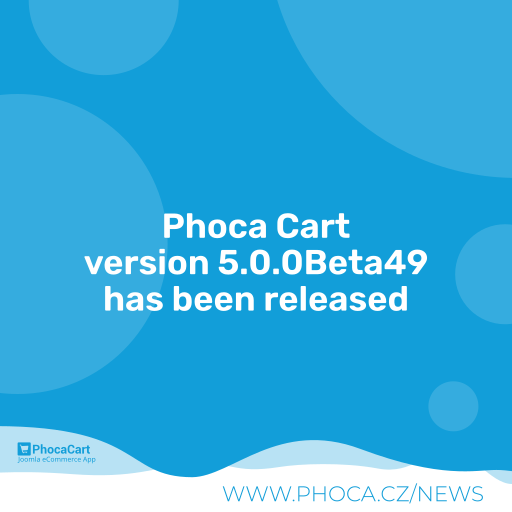
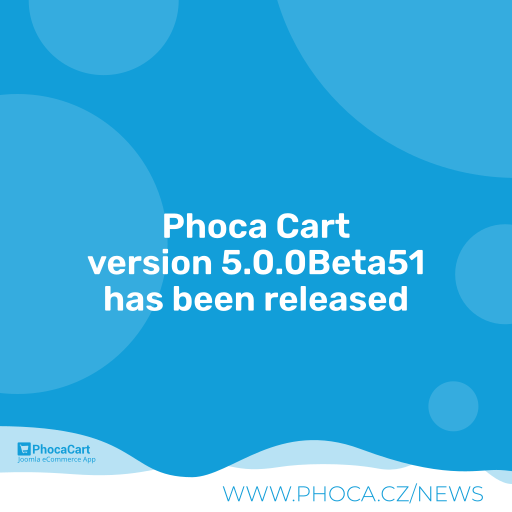
5.0.0Beta51

Changed region(s): [[0.1562, 0.4688, 0.8438, 0.5625]]

diff --git a/media/css/main.css b/media/css/main.css
@@ -1139,7 +1139,7 @@ table.ph-comparison-table tr td.ph-middle {
 ul.ph-filter-module-category-tree {
     list-style-type: none;
     padding: 0;
-    padding-left: 1em;
+    /*padding-left: 1em;*/
 }
 
 ul.ph-filter-module-category-tree li .checkbox {
@@ -2591,3 +2591,5 @@ form.ph-form-placeholder .ph-checkout-billing-row {
     text-align: center;
     margin-bottom: 1em;
 }
+
+

diff --git a/site/layouts/order.php b/site/layouts/order.php
@@ -553,6 +553,11 @@ if ($d['type'] == 2) {
 	if ($invoiceTopDescArticle != '') {
 		$o[] = '<div '.$hrSmall.'>&nbsp;</div>';
 		$invoiceTopDescArticle 	= PhocacartPdf::skipStartAndLastTag($invoiceTopDescArticle, 'p');
+
+        if ($d['qrcode'] != '' && $d['format'] == 'pdf') {
+            $invoiceTopDescArticle = str_replace('{invoiceqr}', '{phocapdfqrcode|' . urlencode($d['qrcode']) . '}', $invoiceTopDescArticle);
+        }
+
 		$invoiceTopDescArticle 	= PhocacartText::completeText($invoiceTopDescArticle, $d['preparereplace'], 1);
 		//$invoiceTopDescArticle 	= PhocacartText::completeTextFormFields($invoiceTopDescArticle, $d['bas']['b'], 1);
 		//$invoiceTopDescArticle 	= PhocacartText::completeTextFormFields($invoiceTopDescArticle, $d['bas']['s'], 2);
@@ -565,6 +570,11 @@ if ($d['type'] == 2) {
 	if ($orderTopDescArticle != '') {
 		$o[] = '<div '.$hrSmall.'>&nbsp;</div>';
 		$orderTopDescArticle 	= PhocacartPdf::skipStartAndLastTag($orderTopDescArticle, 'p');
+
+        if ($d['qrcode'] != '' && $d['format'] == 'pdf') {
+            $orderTopDescArticle = str_replace('{invoiceqr}', '{phocapdfqrcode|' . urlencode($d['qrcode']) . '}', $orderTopDescArticle);
+        }
+
 		$orderTopDescArticle 	= PhocacartText::completeText($orderTopDescArticle, $d['preparereplace'], 1);
 		//$orderTopDescArticle 	= PhocacartText::completeTextFormFields($orderTopDescArticle, $d['bas']['b'], 1);
 		//$orderTopDescArticle 	= PhocacartText::completeTextFormFields($orderTopDescArticle, $d['bas']['s'], 2);
@@ -577,6 +587,11 @@ if ($d['type'] == 2) {
 	if ($dnTopDescArticle != '') {
 		$o[] = '<div '.$hrSmall.'>&nbsp;</div>';
 		$dnTopDescArticle 	= PhocacartPdf::skipStartAndLastTag($dnTopDescArticle, 'p');
+
+        if ($d['qrcode'] != '' && $d['format'] == 'pdf') {
+            $dnTopDescArticle = str_replace('{invoiceqr}', '{phocapdfqrcode|' . urlencode($d['qrcode']) . '}', $dnTopDescArticle);
+        }
+
 		$dnTopDescArticle 	= PhocacartText::completeText($dnTopDescArticle, $d['preparereplace'], 1);
 		$dnTopDescArticle 	= PhocacartText::completeTextFormFields($dnTopDescArticle, $d['bas']['b'], $d['bas']['s']);
 		$o[] = '<table '.$bDesc.'><tr><td>'.$dnTopDescArticle.'</td></tr></table>';
@@ -935,6 +950,11 @@ if ($d['type'] == 2) {
 	if ($invoiceMiddleDescArticle != '') {
 		$o[] = '<div '.$hrSmall.'>&nbsp;</div>';
 		$invoiceMiddleDescArticle 	= PhocacartPdf::skipStartAndLastTag($invoiceMiddleDescArticle, 'p');
+
+        if ($d['qrcode'] != '' && $d['format'] == 'pdf') {
+            $invoiceMiddleDescArticle = str_replace('{invoiceqr}', '{phocapdfqrcode|' . urlencode($d['qrcode']) . '}', $invoiceMiddleDescArticle);
+        }
+
 		$invoiceMiddleDescArticle 	= PhocacartText::completeText($invoiceMiddleDescArticle, $d['preparereplace'], 1);
 		//$invoiceMiddleDescArticle 	= PhocacartText::completeTextFormFields($invoiceMiddleDescArticle, $d['bas']['b'], 1);
 		//$invoiceMiddleDescArticle 	= PhocacartText::completeTextFormFields($invoiceMiddleDescArticle, $d['bas']['s'], 2);
@@ -947,7 +967,12 @@ if ($d['type'] == 2) {
 	if ($orderMiddleDescArticle != '') {
 		$o[] = '<div '.$hrSmall.'>&nbsp;</div>';
 		$orderMiddleDescArticle 	= PhocacartPdf::skipStartAndLastTag($orderMiddleDescArticle, 'p');
-		$orderMiddleDescArticle 	= PhocacartText::completeText($orderMiddleDescArticle, $d['preparereplace'], 1);
+
+        if ($d['qrcode'] != '' && $d['format'] == 'pdf') {
+            $orderMiddleDescArticle = str_replace('{invoiceqr}', '{phocapdfqrcode|' . urlencode($d['qrcode']) . '}', $orderMiddleDescArticle);
+        }
+
+        $orderMiddleDescArticle 	= PhocacartText::completeText($orderMiddleDescArticle, $d['preparereplace'], 1);
 		//$orderMiddleDescArticle 	= PhocacartText::completeTextFormFields($orderMiddleDescArticle, $d['bas']['b'], 1);
 		//$orderMiddleDescArticle 	= PhocacartText::completeTextFormFields($orderMiddleDescArticle, $d['bas']['s'], 2);
 		$orderMiddleDescArticle 	= PhocacartText::completeTextFormFields($orderMiddleDescArticle, $d['bas']['b'], $d['bas']['s']);
@@ -959,6 +984,11 @@ if ($d['type'] == 2) {
 	if ($dnMiddleDescArticle != '') {
 		$o[] = '<div '.$hrSmall.'>&nbsp;</div>';
 		$dnMiddleDescArticle 	= PhocacartPdf::skipStartAndLastTag($dnMiddleDescArticle, 'p');
+
+        if ($d['qrcode'] != '' && $d['format'] == 'pdf') {
+            $dnMiddleDescArticle = str_replace('{invoiceqr}', '{phocapdfqrcode|' . urlencode($d['qrcode']) . '}', $dnMiddleDescArticle);
+        }
+
 		$dnMiddleDescArticle 	= PhocacartText::completeText($dnMiddleDescArticle, $d['preparereplace'], 1);
 		$dnMiddleDescArticle 	= PhocacartText::completeTextFormFields($dnMiddleDescArticle, $d['bas']['b'], $d['bas']['s']);
 		$o[] = '<table '.$bDesc.'><tr><td>'.$dnMiddleDescArticle.'</td></tr></table>';
@@ -1162,7 +1192,12 @@ if ($d['type'] == 2) {
 	if ($invoiceBottomDescArticle != '') {
 		$o[] = '<div '.$hrSmall.'>&nbsp;</div>';
 		$invoiceBottomDescArticle 	= PhocacartPdf::skipStartAndLastTag($invoiceBottomDescArticle, 'p');
-		$invoiceBottomDescArticle 	= PhocacartText::completeText($invoiceBottomDescArticle, $d['preparereplace'], 1);
+
+        if ($d['qrcode'] != '' && $d['format'] == 'pdf') {
+            $invoiceBottomDescArticle = str_replace('{invoiceqr}', '{phocapdfqrcode|' . urlencode($d['qrcode']) . '}', $invoiceBottomDescArticle);
+        }
+
+        $invoiceBottomDescArticle 	= PhocacartText::completeText($invoiceBottomDescArticle, $d['preparereplace'], 1);
 		//$invoiceBottomDescArticle 	= PhocacartText::completeTextFormFields($invoiceBottomDescArticle, $d['bas']['b'], 1);
 		//$invoiceBottomDescArticle 	= PhocacartText::completeTextFormFields($invoiceBottomDescArticle, $d['bas']['s'], 2);
 		$invoiceBottomDescArticle 	= PhocacartText::completeTextFormFields($invoiceBottomDescArticle, $d['bas']['b'], $d['bas']['s']);
@@ -1174,11 +1209,17 @@ if ($d['type'] == 2) {
 	if ($orderBottomDescArticle != '') {
 		$o[] = '<div '.$hrSmall.'>&nbsp;</div>';
 		$orderBottomDescArticle 	= PhocacartPdf::skipStartAndLastTag($orderBottomDescArticle, 'p');
+
+        if ($d['qrcode'] != '' && $d['format'] == 'pdf') {
+            $orderBottomDescArticle = str_replace('{invoiceqr}', '{phocapdfqrcode|' . urlencode($d['qrcode']) . '}', $orderBottomDescArticle);
+        }
 		$orderBottomDescArticle 	= PhocacartText::completeText($orderBottomDescArticle, $d['preparereplace'], 1);
 		//$orderBottomDescArticle 	= PhocacartText::completeTextFormFields($orderBottomDescArticle, $d['bas']['b'], 1);
 		//$orderBottomDescArticle 	= PhocacartText::completeTextFormFields($orderBottomDescArticle, $d['bas']['s'], 2);
 		$orderBottomDescArticle 	= PhocacartText::completeTextFormFields($orderBottomDescArticle, $d['bas']['b'], $d['bas']['s']);
 		$o[] = '<table '.$bDesc.'><tr><td>'.$orderBottomDescArticle.'</td></tr></table>';
+
+
 	}
 } else if ($d['type'] == 3) {
 	$dnBottomDescArticle = PhocacartRenderFront::renderArticle((int)$dn_global_bottom_desc, $d['format']);
@@ -1186,6 +1227,11 @@ if ($d['type'] == 2) {
 	if ($dnBottomDescArticle != '') {
 		$o[] = '<div '.$hrSmall.'>&nbsp;</div>';
 		$dnBottomDescArticle 	= PhocacartPdf::skipStartAndLastTag($dnBottomDescArticle, 'p');
+
+        if ($d['qrcode'] != '' && $d['format'] == 'pdf') {
+            $dnBottomDescArticle = str_replace('{invoiceqr}', '{phocapdfqrcode|' . urlencode($d['qrcode']) . '}', $dnBottomDescArticle);
+        }
+
 		$dnBottomDescArticle 	= PhocacartText::completeText($dnBottomDescArticle, $d['preparereplace'], 1);
 		$dnBottomDescArticle 	= PhocacartText::completeTextFormFields($dnBottomDescArticle, $d['bas']['b'], $d['bas']['s']);
 		$o[] = '<table '.$bDesc.'><tr><td>'.$dnBottomDescArticle.'</td></tr></table>';

diff --git a/site/layouts/form_filter_text.php b/site/layouts/form_filter_text.php
@@ -56,10 +56,10 @@ if (isset($d['filterprice']) && $d['filterprice'] == 2) {
 $title = isset($d['titleheader']) && $d['titleheader'] != '' ? $d['titleheader'] : $d['title'];
 $displayData 	= null;
 ?>
-<div class="<?php echo $d['s']['c']['panel.panel-default'] ?> panel-<?php echo $d['param']; ?>" <?php echo $d['s']['a']['accordion'] ?>>
+<div class="<?php echo $d['s']['c']['panel.panel-default'] ?> panel-<?php echo $d['param']; ?>" <?php echo $d['s']['a']['accordion'] ?> role="tab">
 
     <?php if ($d['s']['c']['class-type'] != 'uikit') { ?>
-        <div class="<?php echo $d['s']['c']['panel-heading'] ?>" role="tab" id="heading<?php echo $d['param']; ?>">
+        <div class="<?php echo $d['s']['c']['panel-heading'] ?>"  id="heading<?php echo $d['param']; ?>">
             <h4 class="<?php echo $d['s']['c']['panel-title'] ?>">
                 <a data-bs-toggle="collapse" href="#collapse<?php echo $d['param']; ?>" aria-expanded="true" aria-controls="collapse<?php echo $d['param']; ?>" class="panel-collapse" aria-label="<?php echo Text::_('COM_PHOCACART_COLLAPSE') . ' ' . $title ?>"><?php echo PhocacartRenderIcon::icon($d['triangle_class']) ?></a>
                 <a data-bs-toggle="collapse" href="#collapse<?php echo $d['param']; ?>" aria-expanded="true" aria-controls="collapse<?php echo $d['param']; ?>" class="panel-collapse" aria-label="<?php echo $title ?>"><?php echo $title ?></a>

diff --git a/site/layouts/form_filter_checkbox_categories.php b/site/layouts/form_filter_checkbox_categories.php
@@ -14,10 +14,10 @@ $dParamAttr		= str_replace(array('[',']'), '', $d['param']);
 
 $title = isset($d['titleheader']) && $d['titleheader'] != '' ? $d['titleheader'] : $d['title'];
 ?>
-<div class="<?php echo $d['s']['c']['panel.panel-default'] ?> panel-<?php echo $dParamAttr; ?>" <?php echo $d['s']['a']['accordion'] ?>>
+<div class="<?php echo $d['s']['c']['panel.panel-default'] ?> panel-<?php echo $dParamAttr; ?>" <?php echo $d['s']['a']['accordion'] ?> role="tab">
 
     <?php if ($d['s']['c']['class-type'] != 'uikit') { ?>
-        <div class="<?php echo $d['s']['c']['panel-heading'] ?>" role="tab" id="heading<?php echo $dParamAttr; ?>">
+        <div class="<?php echo $d['s']['c']['panel-heading'] ?>" id="heading<?php echo $dParamAttr; ?>">
             <h4 class="<?php echo $d['s']['c']['panel-title'] ?>">
                 <a data-bs-toggle="collapse" href="#collapse<?php echo $dParamAttr; ?>" aria-expanded="true" aria-controls="collapse<?php echo $dParamAttr; ?>" class="panel-collapse" aria-label="<?php echo Text::_('COM_PHOCACART_COLLAPSE') . ' ' . $title ?>"><?php echo PhocacartRenderIcon::icon($d['triangle_class']) ?></a>
                 <a data-bs-toggle="collapse" href="#collapse<?php echo $dParamAttr; ?>" aria-expanded="true" aria-controls="collapse<?php echo$dParamAttr; ?>" class="panel-collapse" aria-label="<?php echo $title ?>"><?php echo $title ?></a>

diff --git a/site/layouts/form_filter_checkbox.php b/site/layouts/form_filter_checkbox.php
@@ -59,10 +59,10 @@ foreach ($d['items'] as $k => $v) {
 
 $title = isset($d['titleheader']) && $d['titleheader'] != '' ? $d['titleheader'] : $d['title'];
 
-?><div class="<?php echo $d['s']['c']['panel.panel-default'] ?> panel-<?php echo $dParamAttr; ?>" <?php echo $d['s']['a']['accordion'] ?>>
+?><div class="<?php echo $d['s']['c']['panel.panel-default'] ?> panel-<?php echo $dParamAttr; ?>" <?php echo $d['s']['a']['accordion'] ?> role="tab">
 
     <?php if ($d['s']['c']['class-type'] != 'uikit') { ?>
-        <div class="<?php echo $d['s']['c']['panel-heading'] ?>" role="tab" id="heading<?php echo $dParamAttr; ?>">
+        <div class="<?php echo $d['s']['c']['panel-heading'] ?>" id="heading<?php echo $dParamAttr; ?>">
             <h4 class="<?php echo $d['s']['c']['panel-title'] ?>">
                 <a data-bs-toggle="collapse" href="#collapse<?php echo $dParamAttr; ?>" aria-expanded="true" aria-controls="collapse<?php echo $dParamAttr; ?>" class="panel-collapse" aria-label="<?php echo Text::_('COM_PHOCACART_COLLAPSE') . ' ' . $title ?>"><?php echo PhocacartRenderIcon::icon($d['triangle_class']) ?></a>
                 <a data-bs-toggle="collapse" href="#collapse<?php echo $dParamAttr; ?>" aria-expanded="true" aria-controls="collapse<?php echo$dParamAttr; ?>" class="panel-collapse" aria-label="<?php echo $title ?>"><?php echo $title ?></a>

diff --git a/site/layouts/product_stock.php b/site/layouts/product_stock.php
@@ -11,11 +11,18 @@ use Joomla\CMS\Language\Text;
 $d = $displayData;
 $stockStatusClass = isset($d['stock_status_class']) ? ' '. $d['stock_status_class'] : '';
 
+if (!isset($d['ajax']) || (isset($d['ajax']) && $d['ajax'] != 1)) {
+    echo '<div class="ph-item-stock-box" id="phItemStockBox'. $d['typeview'] . (int)$d['product_id'].'">';
+}
+
+echo ' <div class="'. $d['class'].'">';
+echo '  <div class="ph-stock-txt">'. Text::_('COM_PHOCACART_AVAILABILITY').':</div>';
+echo '  <div class="ph-stock'. $stockStatusClass . '">'.Text::_($d['stock_status_output']).'</div>';
+echo '  <div class="ph-cb"></div>';
+echo ' </div>';
+
+if (!isset($d['ajax']) || (isset($d['ajax']) && $d['ajax'] != 1)) {
+    echo '</div>';
+}
 ?>
-<div id="phItemStockBox<?php echo $d['typeview'] . (int)$d['product_id']; ?>">
-	<div class="<?php echo $d['class']; ?>">
-		<div class="ph-stock-txt"><?php echo Text::_('COM_PHOCACART_AVAILABILITY'); ?>:</div>
-		<div class="ph-stock<?php echo $stockStatusClass?>"><?php echo Text::_($d['stock_status_output']); ?></div>
-	</div>
-</div>
-<div class="ph-cb"></div>
+

diff --git a/site/controllers/checkout.json.php b/site/controllers/checkout.json.php
@@ -168,6 +168,7 @@ class PhocaCartControllerCheckout extends FormController
                         $d['typeview']            = $typeView;
                         $d['stock_status_class']	= isset($stockStatus['stock_status_class']) ? $stockStatus['stock_status_class'] : '';
                         $d['stock_status_output'] = PhocacartStock::getStockStatusOutput($stockStatus);
+                        $d['ajax']                 = 1;
 
                         $oA['stock'] = $layoutS->render($d);
 

diff --git a/admin/models/phocacartorder.php b/admin/models/phocacartorder.php
@@ -236,6 +236,7 @@ class PhocaCartCpModelPhocacartOrder extends AdminModel
         //$data['ticket_id'] = $data['ticket_id'] ?: 0;
 
         $data['section_id'] = isset($data['section_id']) ? $data['section_id'] : 0;
+        if ($data['section_id'] == '') {$data['section_id'] = 0;}
         $data['unit_id'] = isset($data['unit_id']) ? $data['unit_id'] : 0;
         $data['ticket_id'] = isset($data['ticket_id']) ? $data['ticket_id'] : 0;
 

diff --git a/admin/libraries/phocacart/shipping/shipping.php b/admin/libraries/phocacart/shipping/shipping.php
@@ -770,7 +770,9 @@ class PhocacartShipping
 				$valuesString 	= '';
 
 				foreach($shippingsArray as $k => $v) {
-					$values[] = ' ('.(int)$id.', '.(int)$v[0].')';
+					//$values[] = ' ('.(int)$id.', '.(int)$v[0].')';
+					// No multidimensional in J4
+					$values[] = ' ('.(int)$id.', '.(int)$v.')';
 				}
 
 				if (!empty($values)) {

diff --git a/README.MD b/README.MD
@@ -132,7 +132,7 @@ Phoca Cart is e-commerce extension - powerful shopping cart for Joomla! CMS. Pho
 
 ## Version (Joomla! 5.x)
 
-5.0.0Beta49
+5.0.0Beta51
 
 
 
